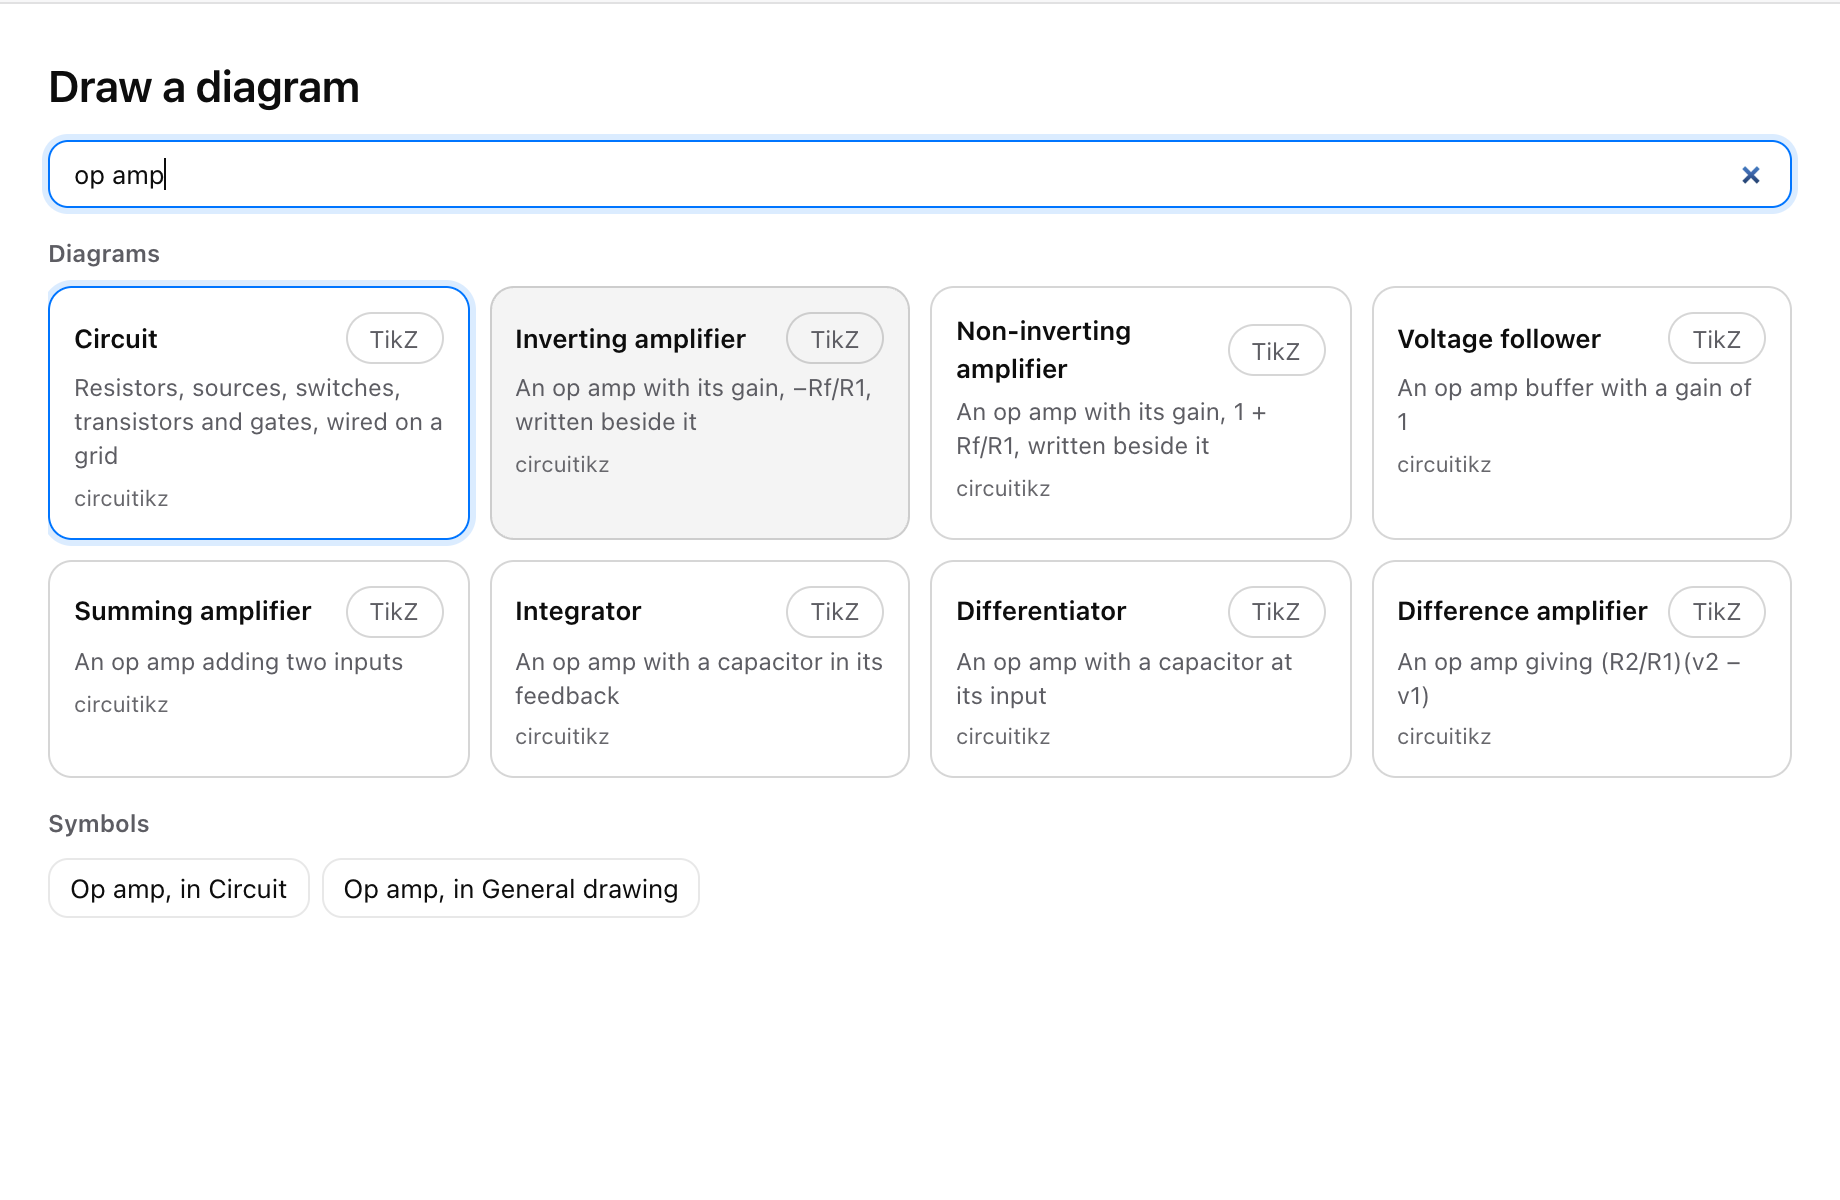
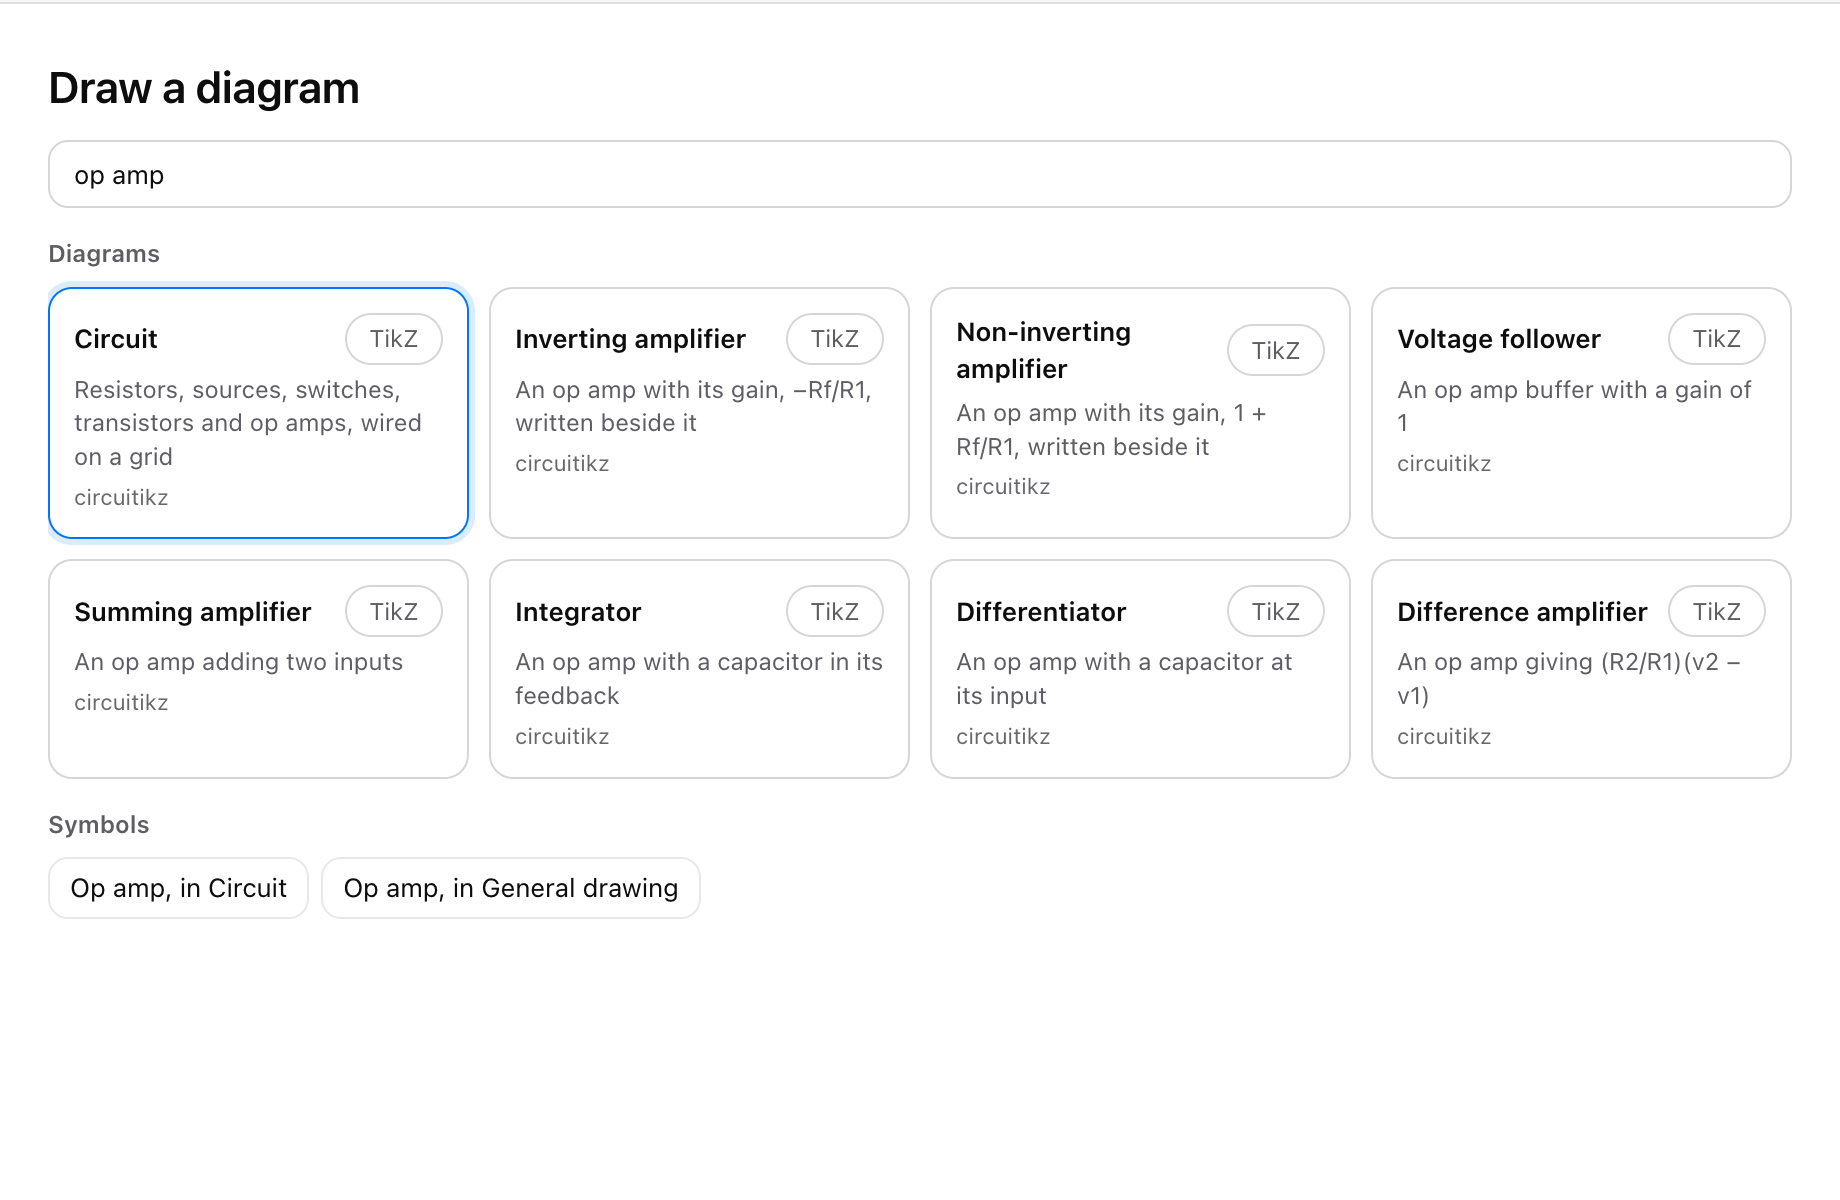
Handbook and Settings: kinds of circuit drawing, and the chooser's Standard view

diff --git a/apps/frontend/src/app/SettingsSheet.tsx b/apps/frontend/src/app/SettingsSheet.tsx
@@ -1814,8 +1814,8 @@ export function ComposerPane() {
         <span>
           Symbols from other packages
           <span className="field-hint">
-            Adds a Symbol sets… button below a drawing’s symbols, for adding another package’s symbols to it, such as mechanical supports in a circuit. A
-            diagram’s own symbols are always there.
+            Adds a Symbol sets… button below a drawing’s symbols, for adding other kinds of symbol to it, such as logic gates or mechanical supports in a
+            circuit. Off, a drawing lists only its own kind: a circuit’s parts in a circuit, gates in a logic schematic.
           </span>
         </span>
       </label>
